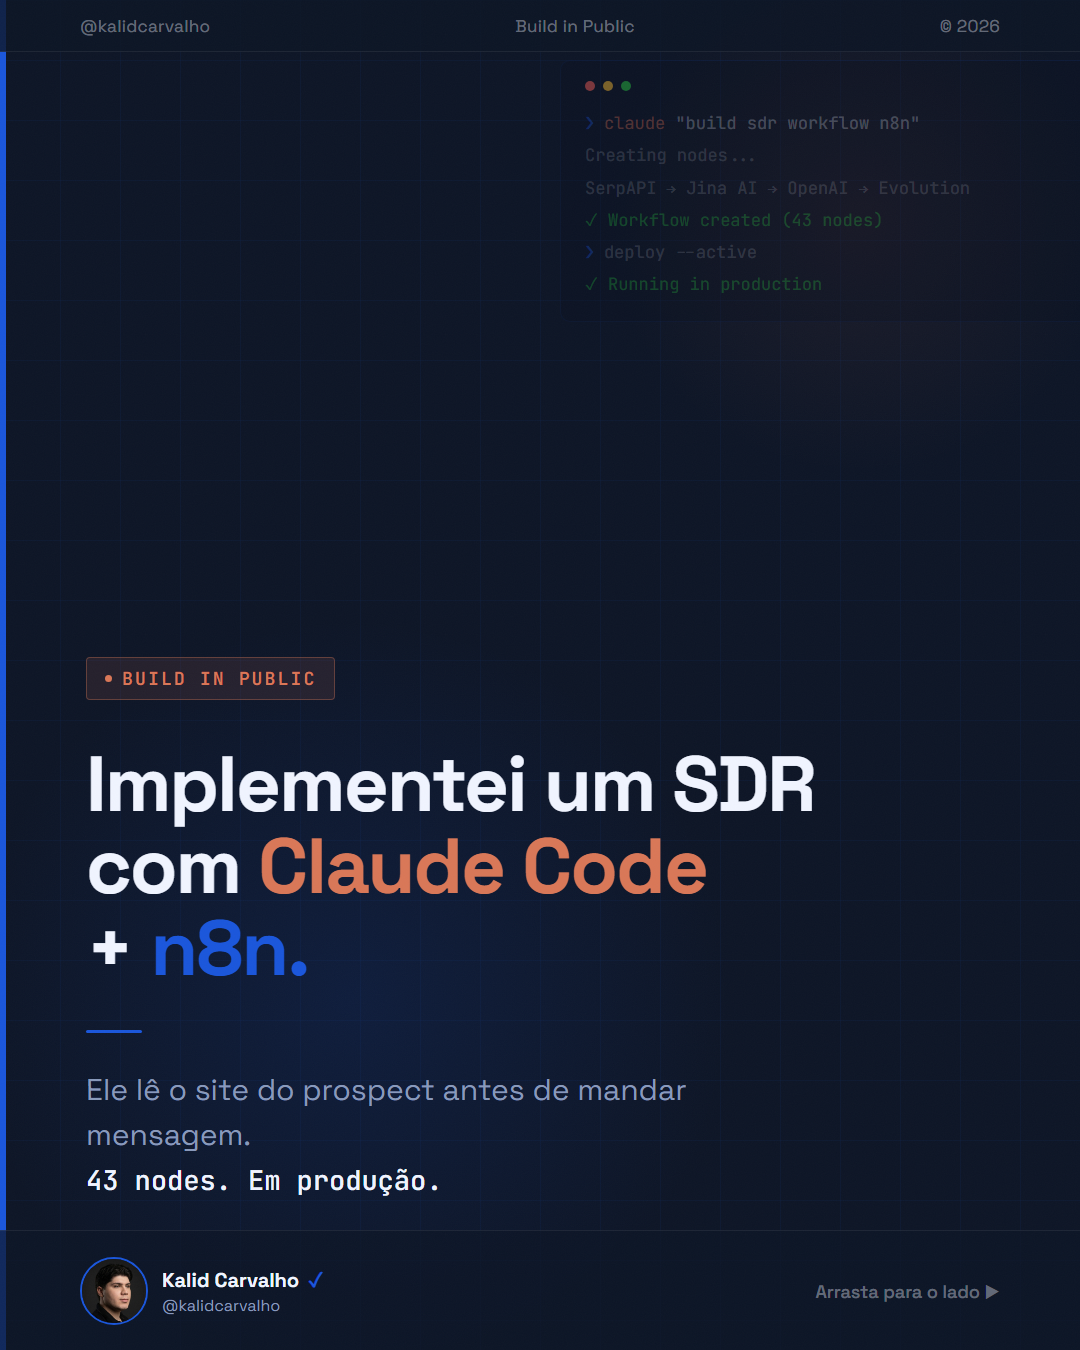
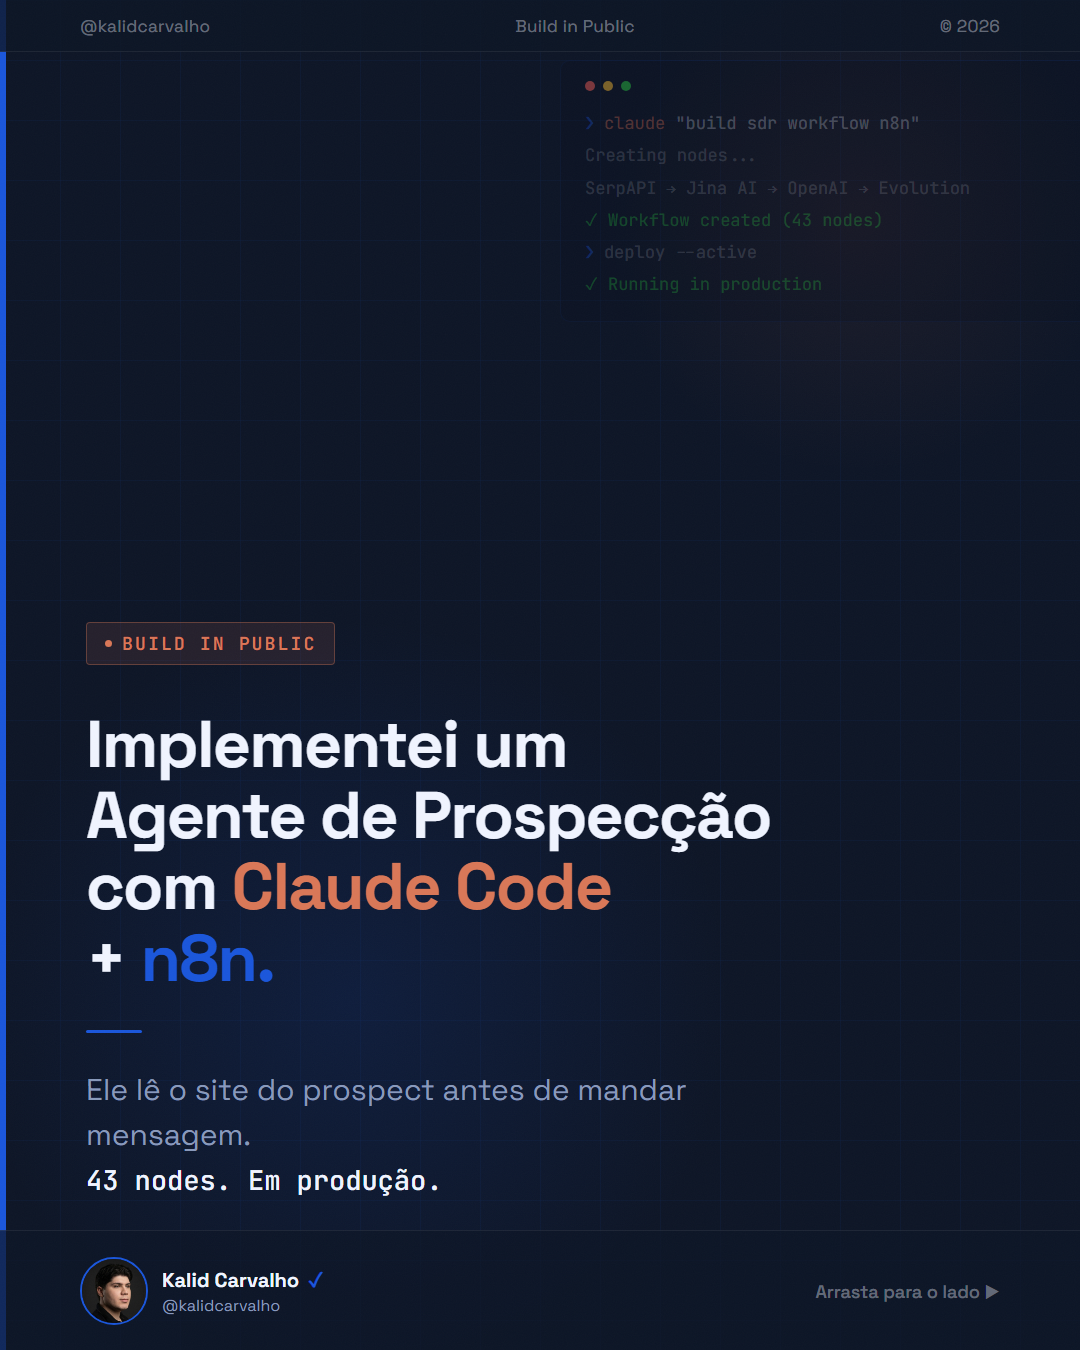
auto-sync: 2026-04-23 21:12

Changed region(s): [[0.0611, 0.4667, 0.7639, 0.7467]]

diff --git a/conteudo/kalidcarvalho/carrosseis/2026-04-24/sdr-claude-code/instagram/slide-01.html b/conteudo/kalidcarvalho/carrosseis/2026-04-24/sdr-claude-code/instagram/slide-01.html
@@ -103,9 +103,9 @@
     .tag span { font-family: 'JetBrains Mono', monospace; font-size: 18px; font-weight: 600; color: #D97757; letter-spacing: 0.12em; text-transform: uppercase; }
 
     .headline {
-      font-size: 78px; font-weight: 800;
-      line-height: 1.05; letter-spacing: -0.025em;
-      color: #F0F4FF; margin-bottom: 40px;
+      font-size: 66px; font-weight: 800;
+      line-height: 1.08; letter-spacing: -0.025em;
+      color: #F0F4FF; margin-bottom: 36px;
     }
     .headline .claude { color: #D97757; }
     .headline .n8n { color: #1A56DB; }
@@ -167,7 +167,8 @@
     </div>
 
     <div class="headline">
-      Implementei um SDR<br>
+      Implementei um<br>
+      Agente de Prospecção<br>
       com <span class="claude">Claude Code</span><br>
       + <span class="n8n">n8n.</span>
     </div>
